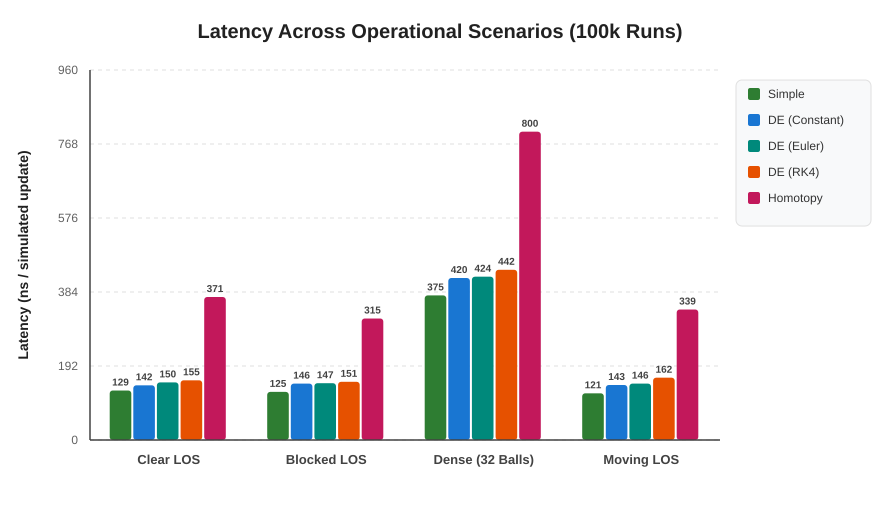
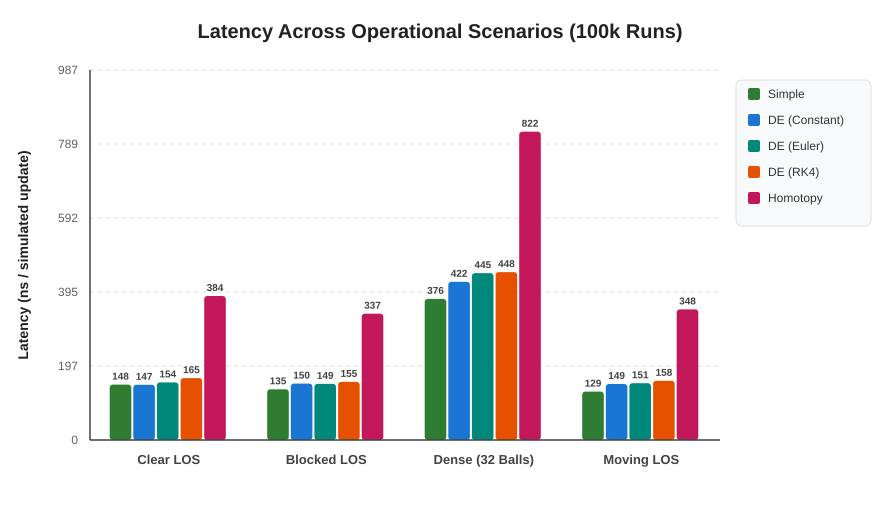
docs: bench and Readme indicate

diff --git a/README.md b/README.md
@@ -86,11 +86,11 @@ SIMULATED UPDATE LATENCY (aim + ball physics; rendering excluded):
 -----------------------------------------------------------------
 | Solution         | Update (ns) | Relative latency |
 |:-----------------|------------:|-----------------:|
-| Simple           |       130.3 |             1.00x |
-| DE (Constant)    |       142.4 |             1.09x |
-| DE (Euler)       |       145.9 |             1.12x |
-| DE (RK4)         |       160.6 |             1.23x |
-| Homotopy         |       339.2 |             2.60x |
+| Simple           |       126.3 |             1.00x |
+| DE (Constant)    |       156.8 |             1.24x |
+| DE (Euler)       |       159.4 |             1.26x |
+| DE (RK4)         |       160.2 |             1.27x |
+| Homotopy         |       352.5 |             2.79x |
 -----------------------------------------------------------------
 ```
 
@@ -136,7 +136,23 @@ The observed latency ranking—**`Simple` (`~130 ns`) < `DE (Constant)` (`~142 n
 | **`DE (Constant)`** | 2 additions (`x + Δx`) | 1× `newton_step` | **1** | 89.94% | 5,196 | Zero-cost predictor + single Newton step; fastest DE variant, but lowest continuation convergence |
 | **`DE (Euler)`** | 1× `euler_step` (`dx_dt`) | 1× `newton_step` | **2** | 93.97% | 3,797 | 1 extra `solve_2x2` in predictor is nearly offset by 27% fewer central-loop continuation calls |
 | **`DE (RK4)`** | 4-stage `rk4_step` | 1× `newton_step` | **5** | 98.64% | 2,171 | 5× the linear solves of `Constant`, partially amortized by 98.6% fast-path & 97.8% loop convergence |
-| **`Homotopy`** | None (stateless) | 5-step Euler+Newton on 2 roots | **~32 / ball** | 0% (no fast path) | Every candidate ball | Tracks both roots (`r_entry`, `r_exit`) over 5 homotopy steps from scratch on every frame |
+| **`Homotopy`** | None (stateless) | Adaptive RK4+Newton on 2 roots | **~42 / ball** | 0% (no fast path) | Every candidate ball | Tracks both roots (`r_entry`, `r_exit`) via adaptive RK4 + Newton sub-steps on every frame |
+
+#### Function Call Breakdown: With Fast-Path vs. Without Fast-Path (Central Loop)
+
+To see concretely why each method has a different computational cost, below is the exact sequence of functions invoked per candidate ball when a collision is resolved **via the Temporal Fast-Path (`tracked_fast == true`)** versus **via the Central Loop (`tracked_fast == false`)**:
+
+| Method | Path A: Temporal Fast-Path (`prev_ball_id != 0`, before loop) | Path B: Central Loop (`for j in 1:num_balls`, when `d_perp_sq < R²`) |
+| :--- | :--- | :--- |
+| **`Simple`**<br>(`SimpleSolution.jl`) | *(No fast path — stateless across frames)* | 1. Inline `sqrt(rad_sq - d_perp_sq)` *(1× hardware `sqrtss`)*<br>2. Inline ray point `qx + t_hit * ux`<br>**Total: 0 function calls, 0 `solve_2x2`, 1 `sqrt`** |
+| **`DE (Constant)`**<br>(`DEConstantSolution.jl` $\to$ `DESolution.jl`) | 1. Inline predictor: `x_pred = prev_sol .+ PREV_DELTA`<br>2. `newton_step(x_pred, p, n, c_now, rad)` *(1 iter)*:<br>&nbsp;&nbsp;• `f_error` $\to$ `jacobian` $\to$ `solve_2x2`<br>3. `f_error(x_corr, ...)` *(convergence check)*<br>4. Central loop skips `j == best_hit_id`<br>**Total: 2× `f_error`, 1× `jacobian`, 1× `solve_2x2`** | 1. `track_continuation(r_entry, ..., c_now, rad)` (`:zero_order`):<br>&nbsp;&nbsp;• `newton_step(r_entry, p, n, c_next, rad)` *(1 iter)*:<br>&nbsp;&nbsp;&nbsp;&nbsp;↳ `f_error` $\to$ `jacobian` $\to$ `solve_2x2`<br>2. `f_error(sol1, ...)` *(residual check `< 1e-4`)*<br>3. If `!found_hit` (~89.4% of loop calls):<br>&nbsp;&nbsp;• Fallback `sqrt(max(0.0, rad_sq - d_perp_sq))`<br>**Total: 2× `f_error`, 1× `jacobian`, 1× `solve_2x2` (+ 1× `sqrt` on fallback)** |
+| **`DE (Euler)`**<br>(`DEEulerSolution.jl` $\to$ `DESolution.jl`) | 1. `euler_step(prev_sol, p, dp_dt, n_prev, dn_dt, c_prev, dc_dt, dt)`:<br>&nbsp;&nbsp;• `dx_dt`: `jacobian` $\to$ `df_dt` $\to$ `solve_2x2`<br>2. `newton_step(x_pred, p, n, c_now, rad)` *(1 iter)*:<br>&nbsp;&nbsp;• `f_error` $\to$ `jacobian` $\to$ `solve_2x2`<br>3. `f_error(x_corr, ...)` *(convergence check)*<br>4. Central loop skips `j == best_hit_id`<br>**Total: 1× `df_dt`, 2× `f_error`, 2× `jacobian`, 2× `solve_2x2`** | 1. `track_continuation(r_entry, ..., c_now, rad)` (`:euler`):<br>&nbsp;&nbsp;• `jacobian(x_curr, n, c_mid)` $\to$ `solve_2x2(J, f_s)` *(midpoint Euler predictor)*<br>&nbsp;&nbsp;• `newton_step(x_pred, p, n, c_next, rad)` *(1 iter)*:<br>&nbsp;&nbsp;&nbsp;&nbsp;↳ `f_error` $\to$ `jacobian` $\to$ `solve_2x2`<br>2. `f_error(sol1, ...)` *(residual check `< 1e-4`)*<br>3. If `!found_hit` (~55.0% of loop calls):<br>&nbsp;&nbsp;• Fallback `sqrt(max(0.0, rad_sq - d_perp_sq))`<br>**Total: 2× `f_error`, 2× `jacobian`, 2× `solve_2x2` (+ 1× `sqrt` on fallback)** |
+| **`DE (RK4)`**<br>(`DERK4Solution.jl` $\to$ `DESolution.jl`) | 1. `rk4_step(prev_sol, p, dp_dt, n_prev, dn_dt, c_prev, dc_dt, dt)`:<br>&nbsp;&nbsp;• `k1 = dx_dt(...)`: `jacobian` $\to$ `df_dt` $\to$ `solve_2x2`<br>&nbsp;&nbsp;• `k2 = dx_dt(...)`: `jacobian` $\to$ `df_dt` $\to$ `solve_2x2`<br>&nbsp;&nbsp;• `k3 = dx_dt(...)`: `jacobian` $\to$ `df_dt` $\to$ `solve_2x2`<br>&nbsp;&nbsp;• `k4 = dx_dt(...)`: `jacobian` $\to$ `df_dt` $\to$ `solve_2x2`<br>2. `newton_step(x_pred, p, n, c_now, rad)` *(1 iter)*:<br>&nbsp;&nbsp;• `f_error` $\to$ `jacobian` $\to$ `solve_2x2`<br>3. `f_error(x_corr, ...)` *(convergence check)*<br>4. Central loop skips `j == best_hit_id`<br>**Total: 4× `df_dt`, 2× `f_error`, 5× `jacobian`, 5× `solve_2x2`** | 1. `track_continuation(r_entry, ..., c_now, rad)` (`:rk4`):<br>&nbsp;&nbsp;• `J1 = jacobian` $\to$ `solve_2x2(J1, f_s1)` (`k1`)<br>&nbsp;&nbsp;• `J2 = jacobian` $\to$ `solve_2x2(J2, f_s2)` (`k2`)<br>&nbsp;&nbsp;• `J3 = jacobian` $\to$ `solve_2x2(J3, f_s3)` (`k3`)<br>&nbsp;&nbsp;• `J4 = jacobian` $\to$ `solve_2x2(J4, f_s4)` (`k4`)<br>&nbsp;&nbsp;• `newton_step(x_pred, p, n, c_next, rad)` *(1 iter)*:<br>&nbsp;&nbsp;&nbsp;&nbsp;↳ `f_error` $\to$ `jacobian` $\to$ `solve_2x2`<br>2. `f_error(sol1, ...)` *(residual check `< 1e-4`)*<br>3. If `!found_hit` (only ~2.2% of loop calls):<br>&nbsp;&nbsp;• Fallback `sqrt(max(0.0, rad_sq - d_perp_sq))`<br>**Total: 2× `f_error`, 5× `jacobian`, 5× `solve_2x2` (almost never needs `sqrt`)** |
+| **`Homotopy`**<br>(`HomotopySolution.jl`) | *(No fast path — stateless across frames)* | For **both** `r_entry` and `r_exit` (2× calls to `track_fast`):<br>1. Adaptive loop `while t < 1.0` (~4 sub-steps: $\Delta t = 0.1, 0.2, 0.4, 0.3$):<br>&nbsp;&nbsp;• `rk4_step_fast`: 4 stages $\times$ (`Hx_fast` $\to$ `dh1dx_fast` + `dh2dx_fast`, `Ht_fast` $\to$ `fn_fast`, `solve_2x2_fast`)<br>&nbsp;&nbsp;• `newton_step_fast` (1–2 iters): `Hx_fast`, `H_fast` $\to$ `fn_fast`, `solve_2x2_fast`<br>2. Final polishing `newton_step_fast(curr, 1.0, pi, pf)`<br>3. `fn_fast(sol, pf)` on both `(sol1, sol2)`<br>**Total (for 2 roots): ~42× `Hx_fast`, ~44× `fn_fast`, ~42× `solve_2x2_fast`** |
+
+**Key Takeaway from Comparing Path A vs. Path B:**
+- When a DE method takes **Path A (Fast-Path)**, it resolves the active blocker **before** the loop and immediately shrinks `t_min` to that blocker's distance. Inside the central loop (`for j in 1:num_balls`), it skips `j == best_hit_id` (`tracked_fast && j == best_hit_id && continue`) and uses the tighter `t_min` to prune any balls behind the blocker via the cheap axial check (`t_proj >= t_min + rad`), avoiding `track_continuation` (Path B) entirely unless a *new* closer ball enters the ray.
+- When **Path A fails** (or on the first frame of a new blocker), execution falls through to **Path B** in the central loop, paying both the failed Path A cost *and* the Path B `track_continuation` cost (plus the fallback `sqrt` when `track_continuation` does not converge). This explains why `DE (Euler)` and `DE (RK4)`—which fail Path A `2.3×` and `6.6×` less often than `DE (Constant)`—remain competitive in total runtime despite executing more `solve_2x2` calls per step.
 
 #### 1. Why `Simple` (`1.00x`, ~130 ns) Is the Fastest Baseline in 2D
 - **Minimal instruction count per candidate ball**: Once a ball passes the cheap axial (`t_proj <= 0 || t_proj >= t_min`) and perpendicular (`d_perp_sq >= R²`) dot-product filters, computing the exact entry intersection requires only **one hardware `sqrt`** (`h = sqrt(R² - d_perp_sq)`) and two fused multiply-adds (`hit = p + (t_proj - h) * u`) in `Float32`.
@@ -164,7 +180,7 @@ The observed latency ranking—**`Simple` (`~130 ns`) < `DE (Constant)` (`~142 n
 
 #### 5. Why `Homotopy` (`2.60x`, ~339 ns) Is Always the Slowest Method
 - **Stateless across frames (0% fast path)**: Unlike `DESolution`, `HomotopySolution` does not track `PREV_TRACKED_BALL[]` between frames. Every single frame, it treats the scene as a brand-new polynomial system.
-- **Multi-step integration of *both* roots per candidate ball**: For every ball whose bounding circle intersects the ray (`d_perp_sq < R²`), `HomotopySolution` initializes a start system centered on the ray (`r_entry` and `r_exit`) and integrates **both roots** across `N_HOMOTOPY_STEPS = 5` continuation sub-steps ($\Delta s = 0.2$), performing an Euler tangent step + 2 Newton-Raphson corrector steps at *each* sub-step plus a final polishing step (~32 linear $2\times 2$ solves per candidate ball, vs. `Simple`'s single `sqrt`).
+- **Multi-step adaptive RK4 + Newton integration of *both* roots per candidate ball**: For every ball whose bounding circle intersects the ray (`d_perp_sq < R²`), `HomotopySolution` initializes a start system centered on the ray (`r_entry` and `r_exit`) and calls `track_fast` on **both roots** across an adaptive continuation loop (`while t < 1.0`, ~4 sub-steps: $\Delta t = 0.1, 0.2, 0.4, 0.3$), performing a 4-stage `rk4_step_fast` + 1–2 `newton_step_fast` corrector iterations at *each* sub-step plus a final polishing `newton_step_fast` (~42 linear $2\times 2$ solves per candidate ball, vs. `Simple`'s single `sqrt`).
 - **When `DE` and `Homotopy` outperform direct solvers**: In 2D line-circle intersection, the polynomial system has degree 2 and a trivial closed-form root (`sqrt`). In higher-dimensional geometric modeling, robotics kinematics, or ray-tracing of higher-degree algebraic surfaces ($d \ge 5$) where no closed-form radical formula exists, computing roots from scratch requires expensive iterative eigenvalue or Gröbner-basis solvers at every frame. In those regimes, local predictor-corrector tracking (`DE`) and homotopy continuation (`Homotopy`) avoid global root-finding altogether and become orders of magnitude faster.
 
 ### Detailed Experimental Investigations (100,000 Runs)
